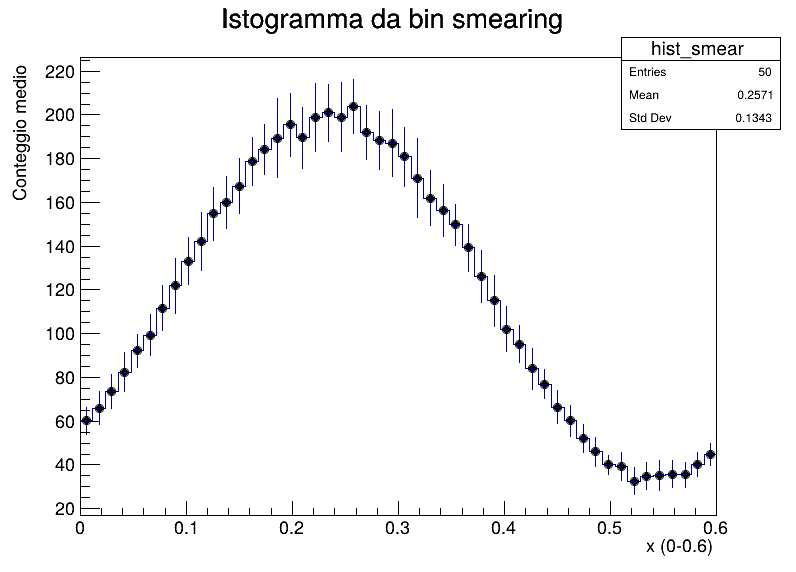
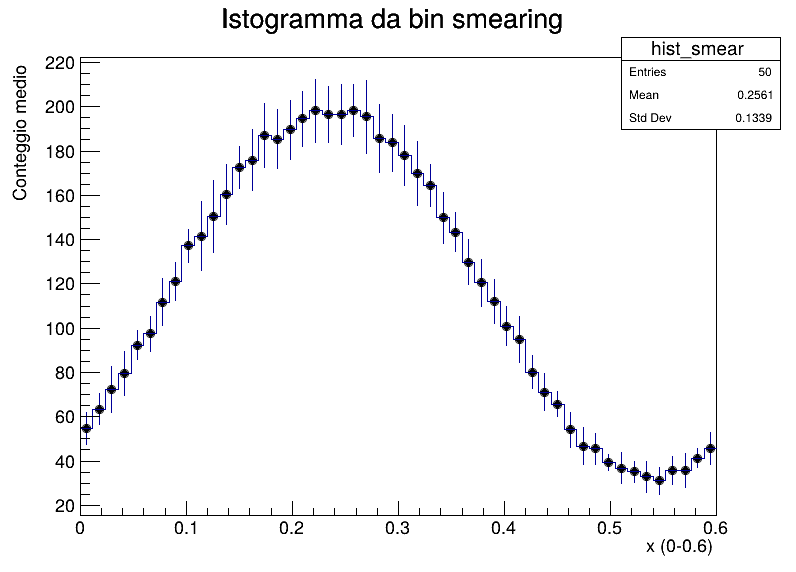
modifiche

diff --git a/modulo1/root_macro.C b/modulo1/root_macro.C
@@ -182,8 +182,7 @@ class macro {
       std::cout << "INTEGRALE: " << cosScaled_g->Integral(0., 0.6) << '\n';
       hist_list.push_back(random_generation_hist(n_eventi, bins, cosScaled_g));
     }
-  std::cout << "INTEGRALE_histo: " << hist_list[1]->Integral(1, 50) << '\n';
-
+    std::cout << "INTEGRALE_histo: " << hist_list[1]->Integral(1, 50) << '\n';
 
     std::vector<double> media(bins, 0.0);
     std::vector<double> sigma(bins, 0.0);
@@ -273,11 +272,15 @@ class macro {
     cos1->FixParameter(2, b_);
     auto fixpar = hist->Fit(cos1, "RSQ");
 
+    TCanvas* c9 = new TCanvas("cosparfix", "cosus", 800, 600);
+    cos1->Draw();
+    hist->Draw("same");
+    c9->SaveAs("Fix_fit.png");
+
     int statusfree = freepar->Status();
     int statusfix  = fixpar->Status();
 
-    std::cout<<"residuo: "<< residuo(cos1, hist) << '\n';
-
+    std::cout << "residuo: " << residuo(cos1, hist) << '\n';
 
     std::ofstream ofs("Fit.md");
     if (!ofs.is_open()) {

diff --git a/modulo1/Fit.md b/modulo1/Fit.md
@@ -4,14 +4,14 @@
 
 - **Status:** 0
 - **Funzione:** `Funzione coseno`
-- **Chi² / NDF:** 40.0908 / 46
+- **Chi² / NDF:** 39.8465 / 46
 
 | Index | Name | Value | Error |
 |:------:|:------|:------:|:------:|
-| 0 | p0 | 5.11142 | 0.0942914 |
-| 1 | p1 | 1.81112 | 0.0273657 |
-| 2 | p2 | 0.178895 | 0.0156696 |
-| 3 | p3 | 167.079 | 3.92863 |
+| 0 | p0 | 5.09152 | 0.0969661 |
+| 1 | p1 | 1.82133 | 0.0285854 |
+| 2 | p2 | 0.1821 | 0.0160182 |
+| 3 | p3 | 165.714 | 3.91272 |
 
 ---
 
@@ -19,11 +19,11 @@
 
 - **Status:** 0
 - **Funzione:** `Funzione coseno`
-- **Chi² / NDF:** 43.2011 / 49
+- **Chi² / NDF:** 42.074 / 49
 
 | Index | Name | Value | Error |
 |:------:|:------|:------:|:------:|
 | 0 | p0 | 5.2 | 0 |
 | 1 | p1 | 1.8 | 0 |
 | 2 | p2 | 0.2 | 0 |
-| 3 | p3 | 163.888 | 2.15908 |
+| 3 | p3 | 163.75 | 2.15817 |
